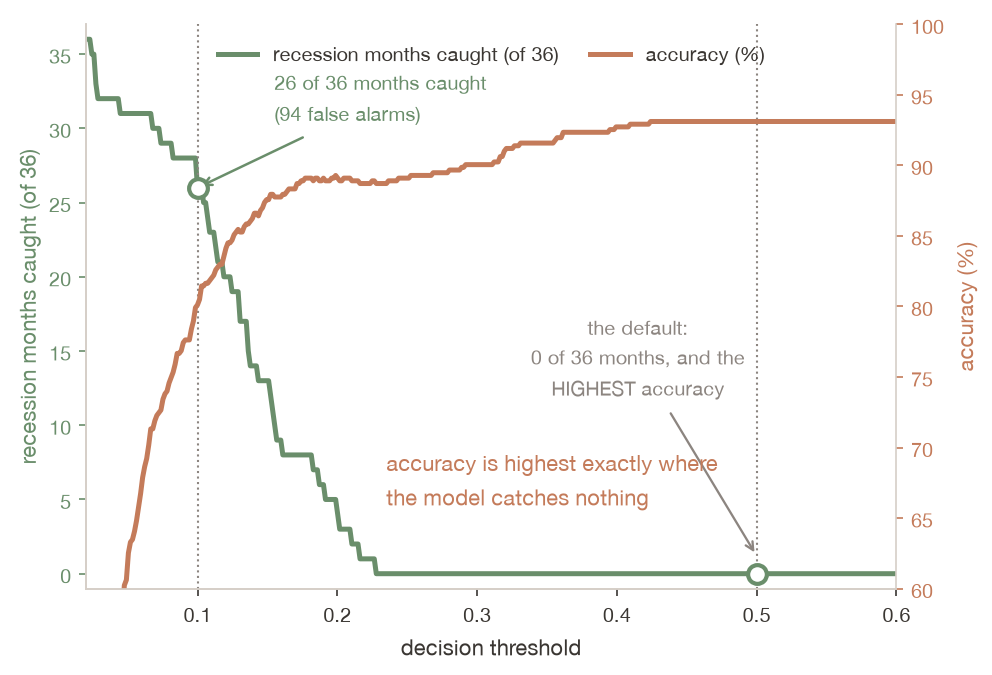
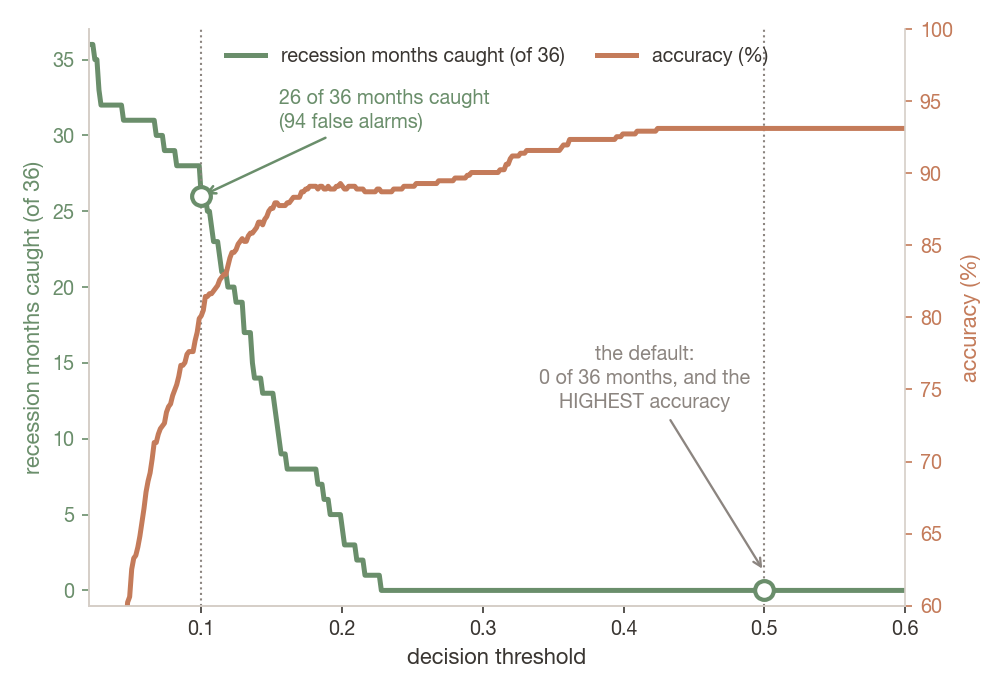
Topic 17: thresholds and costs pages, step by step

diff --git a/ch17-classification/index.html b/ch17-classification/index.html
@@ -1,7 +1,7 @@
 <!doctype html>
 <html lang="en">
 <head>
-<meta name="deck-build" content="public; speaker notes removed by strip_notes.py; out=a6d8a3dbca760d98ef53a5cccc6756fe">
+<meta name="deck-build" content="public; speaker notes removed by strip_notes.py; out=bedd760d9945dfc8c5909d8506530cbc">
   <meta charset="utf-8">
   <meta name="viewport" content="width=device-width, initial-scale=1.0">
   <title>Classification: Logistic Regression</title>
@@ -1250,24 +1250,25 @@ recession months caught:  0 of 36</pre></div></div></div></div>
     <section id="threshold-table" style="padding: 28px 55px;">
       <h2 style="margin-bottom: 6px;"><i class="fa-solid fa-sliders" style="color: var(--accent-color);"></i> One Model, Five Thresholds</h2>
       <div class="content">
+        <p style="font-size: 14pt; color: var(--secondary-color); margin: 0 0 8px;"><i class="fa-solid fa-circle-question"></i> What does each threshold trade?</p>
         <table style="width: 100%; font-size: 15pt; border-collapse: collapse;">
           <thead><tr style="border-bottom: 2px solid var(--secondary-color);">
             <th style="text-align: right; padding: 8px 14px;">threshold</th>
-            <th style="text-align: right; padding: 8px 14px;">caught</th>
+            <th style="text-align: right; padding: 8px 14px;">caught (recall)</th>
             <th style="text-align: right; padding: 8px 14px;">missed</th>
             <th style="text-align: right; padding: 8px 14px;">false alarms</th>
             <th style="text-align: right; padding: 8px 14px;">accuracy</th>
           </tr></thead>
           <tbody>
             <tr style="border-bottom: 1px solid #eae4dd; background: #f8f6f3;"><td style="text-align: right; padding: 8px 14px;"><strong>0.50</strong></td><td style="text-align: right; padding: 8px 14px;">0 / 36</td><td style="text-align: right; padding: 8px 14px;">36</td><td style="text-align: right; padding: 8px 14px;">0</td><td style="text-align: right; padding: 8px 14px;"><strong>93.1%</strong></td></tr>
-            <tr style="border-bottom: 1px solid #eae4dd;"><td style="text-align: right; padding: 8px 14px;">0.30</td><td style="text-align: right; padding: 8px 14px;">0 / 36</td><td style="text-align: right; padding: 8px 14px;">36</td><td style="text-align: right; padding: 8px 14px;">16</td><td style="text-align: right; padding: 8px 14px;">90.1%</td></tr>
-            <tr style="border-bottom: 1px solid #eae4dd;"><td style="text-align: right; padding: 8px 14px;">0.20</td><td style="text-align: right; padding: 8px 14px;">4 / 36</td><td style="text-align: right; padding: 8px 14px;">32</td><td style="text-align: right; padding: 8px 14px;">25</td><td style="text-align: right; padding: 8px 14px;">89.1%</td></tr>
-            <tr style="border-bottom: 1px solid #eae4dd;"><td style="text-align: right; padding: 8px 14px;">0.15</td><td style="text-align: right; padding: 8px 14px;">13 / 36</td><td style="text-align: right; padding: 8px 14px;">23</td><td style="text-align: right; padding: 8px 14px;">42</td><td style="text-align: right; padding: 8px 14px;">87.6%</td></tr>
-            <tr style="background: #f8f6f3;"><td style="text-align: right; padding: 8px 14px;"><strong>0.10</strong></td><td style="text-align: right; padding: 8px 14px;"><strong>26 / 36</strong></td><td style="text-align: right; padding: 8px 14px;">10</td><td style="text-align: right; padding: 8px 14px;">94</td><td style="text-align: right; padding: 8px 14px;"><strong>80.1%</strong></td></tr>
+            <tr class="fragment" data-fragment-index="1" style="border-bottom: 1px solid #eae4dd;"><td style="text-align: right; padding: 8px 14px;">0.30</td><td style="text-align: right; padding: 8px 14px;">0 / 36</td><td style="text-align: right; padding: 8px 14px;">36</td><td style="text-align: right; padding: 8px 14px;">16</td><td style="text-align: right; padding: 8px 14px;">90.1%</td></tr>
+            <tr class="fragment" data-fragment-index="2" style="border-bottom: 1px solid #eae4dd;"><td style="text-align: right; padding: 8px 14px;">0.20</td><td style="text-align: right; padding: 8px 14px;">4 / 36</td><td style="text-align: right; padding: 8px 14px;">32</td><td style="text-align: right; padding: 8px 14px;">25</td><td style="text-align: right; padding: 8px 14px;">89.1%</td></tr>
+            <tr class="fragment" data-fragment-index="3" style="border-bottom: 1px solid #eae4dd;"><td style="text-align: right; padding: 8px 14px;">0.15</td><td style="text-align: right; padding: 8px 14px;">13 / 36</td><td style="text-align: right; padding: 8px 14px;">23</td><td style="text-align: right; padding: 8px 14px;">42</td><td style="text-align: right; padding: 8px 14px;">87.6%</td></tr>
+            <tr class="fragment" data-fragment-index="4" style="background: #f8f6f3;"><td style="text-align: right; padding: 8px 14px;"><strong>0.10</strong></td><td style="text-align: right; padding: 8px 14px;"><strong>26 / 36</strong></td><td style="text-align: right; padding: 8px 14px;">10</td><td style="text-align: right; padding: 8px 14px;">94</td><td style="text-align: right; padding: 8px 14px;"><strong>80.1%</strong></td></tr>
           </tbody>
         </table>
-        <div class="key-result" style="margin-top: 16px;">
-          <p style="font-size: 16.5pt;">Read the first and last rows together. At the default the model catches <strong>nothing</strong> and posts the <strong>best</strong> accuracy in the table. At 0.10 it catches 26 of the 36 recession months and posts the <strong>worst</strong>.</p>
+        <div class="key-result fragment fade-up" data-fragment-index="5" style="margin-top: 14px;">
+          <p style="font-size: 16pt;">Down the table, the model catches more and raises more false alarms, and accuracy falls. The default catches <strong>nothing</strong> at the <strong>best</strong> accuracy; 0.10 catches 26 of 36 at the <strong>worst</strong>.</p>
         </div>
       </div>
     </section>
@@ -1275,14 +1276,15 @@ recession months caught:  0 of 36</pre></div></div></div></div>
     <section id="fig-threshold" style="padding: 22px 45px;">
       <h2 style="margin-bottom: 2px;"><i class="fa-solid fa-arrow-trend-down" style="color: var(--danger-color);"></i> The Same Trade-Off, Continuously</h2>
       <div class="content" style="display: grid; grid-template-columns: 60% 40%; gap: 22px; align-items: center;">
-        <img class="figure" src="figures/figure_004_threshold.png" alt="Recession months caught falling from 36 to zero and accuracy climbing from about 61 to 93 per cent as the decision threshold rises from 0.02 to 0.6, with markers at the 0.10 and 0.50 cutoffs" style="max-height: 520px; width: auto; display: block; margin: 0 auto;">
+        <div class="r-stack" style="width: 100%; min-width: 0;"><img class="figure" src="figures/figure_004_threshold_s1.png" alt="Recession months caught, out of 36, falling from 36 to zero as the decision threshold rises from 0.02 to 0.6, with 26 caught and 94 false alarms marked at 0.10 and none at 0.50" style="max-width: 100%; max-height: 500px; width: auto; height: auto; display: block; margin: 0 auto;"><img class="figure fragment" data-fragment-index="1" src="figures/figure_004_threshold.png" alt="The same chart with accuracy added on a second axis, climbing from about 61 to 93 per cent as the threshold rises, so accuracy is highest where the model catches nothing" style="max-width: 100%; max-height: 500px; width: auto; height: auto; display: block; margin: 0 auto;"></div>
         <div>
-          <p style="font-size: 14.5pt; line-height: 1.5;">Every point on the green line is one row of the table. Every point on the terracotta line is that row's accuracy.</p>
-          <p style="font-size: 14.5pt; line-height: 1.5; margin-top: 12px;">They run in <strong>opposite directions</strong> across the whole range that matters.</p>
-          <div class="key-result" style="margin-top: 12px;">
-            <p style="font-size: 14pt;">Chapter 18 plots this properly. The <strong>ROC curve</strong> is this table read continuously, and <strong>AUC</strong> summarises the whole thing without reference to any threshold at all.</p>
+          <p style="font-size: 14pt; color: var(--secondary-color); margin: 0 0 8px;"><i class="fa-solid fa-circle-question"></i> What happens between the five rows?</p>
+          <p style="font-size: 14.5pt; line-height: 1.45; margin: 0;"><strong>Green:</strong> recession months caught at every threshold. The five rows of the table are five points on it.</p>
+          <p class="fragment fade-up" data-fragment-index="1" style="font-size: 14.5pt; line-height: 1.45; margin-top: 10px;"><strong>Orange:</strong> accuracy at the same thresholds. The two run in <strong>opposite directions</strong>.</p>
+          <div class="key-result fragment fade-up" data-fragment-index="2" style="margin-top: 10px;">
+            <p style="font-size: 14.5pt;">Accuracy is highest exactly where the model catches nothing.</p>
           </div>
-          <p style="font-size: 14pt; margin-top: 10px; color: var(--muted-color);">That threshold-independence is exactly why AUC held up in today's demonstration and accuracy did not.</p>
+          <p class="fragment fade-up" data-fragment-index="2" style="font-size: 13pt; margin-top: 8px; color: var(--muted-color);">Chapter 18 draws this as the ROC curve and sums it up in one number, the AUC, with no threshold at all.</p>
         </div>
       </div>
     </section>
@@ -1304,14 +1306,22 @@ recession months caught:  0 of 36</pre></div></div></div></div>
     <section id="cost-threshold" style="padding: 30px 58px;">
       <h2><i class="fa-solid fa-coins" style="color: var(--success-color);"></i> And It Is Just Arithmetic, Once You Name the Costs</h2>
       <div class="content">
-        <p style="font-size: 15.5pt;">If a false negative costs \(C_{FN}\) and a false positive costs \(C_{FP}\), expected cost is minimised at</p>
-        <div class="equation-box" style="margin: 14px 0;">
-          $$t^* = \frac{C_{FP}}{C_{FP} + C_{FN}}$$
+        <p style="font-size: 14pt; color: var(--secondary-color); margin: 0 0 8px;"><i class="fa-solid fa-circle-question"></i> Which threshold should we use?</p>
+        <p style="font-size: 15pt; line-height: 1.45; margin: 0;">A month has probability \(p\). A missed recession costs \(C_{FN}\); a false alarm costs \(C_{FP}\).</p>
+        <div class="fragment fade-up" data-fragment-index="1" style="display: grid; grid-template-columns: 1fr 1fr; gap: 16px; margin-top: 8px;">
+          <div style="background: #f8f6f3; border-radius: 8px; padding: 8px 14px;"><p style="font-size: 14pt; margin: 0;"><strong>Say no:</strong> if a recession comes, you pay \(C_{FN}\). Expected cost \(p \, C_{FN}\).</p></div>
+          <div style="background: #f8f6f3; border-radius: 8px; padding: 8px 14px;"><p style="font-size: 14pt; margin: 0;"><strong>Say yes:</strong> if none comes, you pay \(C_{FP}\). Expected cost \((1 - p) \, C_{FP}\).</p></div>
         </div>
-        <p style="font-size: 15.5pt; line-height: 1.5;"><strong>In words.</strong> Only the <em>ratio</em> of the costs matters, not their level, the sample size or the model. A miss nine times worse than an alarm gives \(t^* = 0.1\): the table's bottom row, <strong>derived, not guessed</strong>.</p>
-        <div style="display: grid; grid-template-columns: 1fr 1fr; gap: 18px; margin-top: 14px;">
-          <div style="background: #f8f6f3; border-radius: 8px; padding: 14px 20px; border-left: 4px solid var(--secondary-color);"><p style="font-size: 14.5pt; line-height: 1.5;"><strong>Lending.</strong> A default costs most of the principal; a declined good applicant, only the margin. Lab 17: $12,000 against $1,600 (7.5:1, \(t^* = 0.118\)).</p></div>
-          <div style="background: #f8f6f3; border-radius: 8px; padding: 14px 20px; border-left: 4px solid var(--danger-color);"><p style="font-size: 14.5pt; line-height: 1.5;"><strong>Criminal justice.</strong> A false positive detains someone who would not have reoffended. The ratio is <em>contested</em>: a political question dressed as a technical one.</p></div>
+        <div class="fragment fade-up" data-fragment-index="2" style="margin-top: 8px;">
+          <p style="font-size: 14.5pt; margin: 0;">Say yes when it is cheaper: \(p \, C_{FN} > (1 - p) \, C_{FP}\), which rearranges to</p>
+          <div class="equation-box" style="margin: 6px 0; font-size: 0.85em;">$$p > t^* = \frac{C_{FP}}{C_{FP} + C_{FN}}$$</div>
+        </div>
+        <div class="fragment fade-up" data-fragment-index="3" style="display: grid; grid-template-columns: 1fr 1fr; gap: 16px; margin-top: 6px;">
+          <div style="background: #f8f6f3; border-radius: 8px; padding: 8px 14px; border-left: 4px solid var(--secondary-color);"><p style="font-size: 14pt; margin: 0;"><strong>A miss 9 times worse</strong> (\(C_{FP} = 1\), \(C_{FN} = 9\)): \(t^* = 1/(1+9) = 0.10\). That is Poll 2&rsquo;s threshold, derived.</p></div>
+          <div style="background: #f8f6f3; border-radius: 8px; padding: 8px 14px; border-left: 4px solid var(--success-color);"><p style="font-size: 14pt; margin: 0;"><strong>Lab 17 lending:</strong> a default $12,000, a declined good borrower $1,600: \(1{,}600 / 13{,}600 = 0.118\).</p></div>
+        </div>
+        <div class="key-result fragment fade-up" data-fragment-index="4" style="margin-top: 8px;">
+          <p style="font-size: 14.5pt;">Only the <strong>ratio</strong> of the costs matters. Where the ratio is contested, as in criminal justice (detaining someone who would not reoffend), the threshold is a political choice dressed as a technical one.</p>
         </div>
       </div>
     </section>
@@ -1320,11 +1330,11 @@ recession months caught:  0 of 36</pre></div></div></div></div>
       <h2><i class="fa-solid fa-lightbulb" style="color: var(--accent-color);"></i> Think Like an Economist</h2>
       <div class="content">
         <div class="key-result" style="margin-top: 6px;">
-          <p style="font-size: 18pt; line-height: 1.5;">Before choosing a threshold, <strong>write down what each error costs</strong> &mdash; in dollars, or in whatever the decision actually trades.</p>
+          <p style="font-size: 18pt; line-height: 1.45;">Before choosing a threshold, <strong>write down what each error costs</strong>, in dollars or in whatever the decision trades.</p>
         </div>
-        <p class="text-lg" style="margin-top: 18px; line-height: 1.55;">Most classification work skips this and inherits 0.5 from a library, which, without saying so, asserts that false positives and false negatives cost exactly the same. That assertion is almost never true, and it is one an economist is unusually well equipped to interrogate.</p>
-        <p class="text-lg" style="margin-top: 14px; line-height: 1.55;">The cost ratio is the <strong>modelling assumption</strong>. The threshold is just its arithmetic consequence.</p>
-        <p style="margin-top: 18px; font-size: 16pt; color: var(--accent-color);"><i class="fa-solid fa-arrow-right"></i> Someone chooses the threshold. If the analyst does not do it explicitly, the library has already done it for them.</p>
+        <p class="fragment fade-up" data-fragment-index="1" style="font-size: 16pt; margin-top: 16px; line-height: 1.5;"><strong>0.5 is not neutral.</strong> \(t^* = 0.5\) only when \(C_{FP} = C_{FN}\): the library&rsquo;s default quietly assumes a missed recession costs the same as a false alarm. That is almost never true.</p>
+        <p class="fragment fade-up" data-fragment-index="2" style="font-size: 16pt; margin-top: 14px; line-height: 1.5;">The cost ratio is the <strong>modelling assumption</strong>. The threshold is just its arithmetic.</p>
+        <p class="fragment fade-up" data-fragment-index="3" style="margin-top: 16px; font-size: 16pt; color: var(--accent-color);"><i class="fa-solid fa-arrow-right"></i> Someone always chooses the threshold. If the analyst does not, the library already has.</p>
       </div>
     </section>
 
